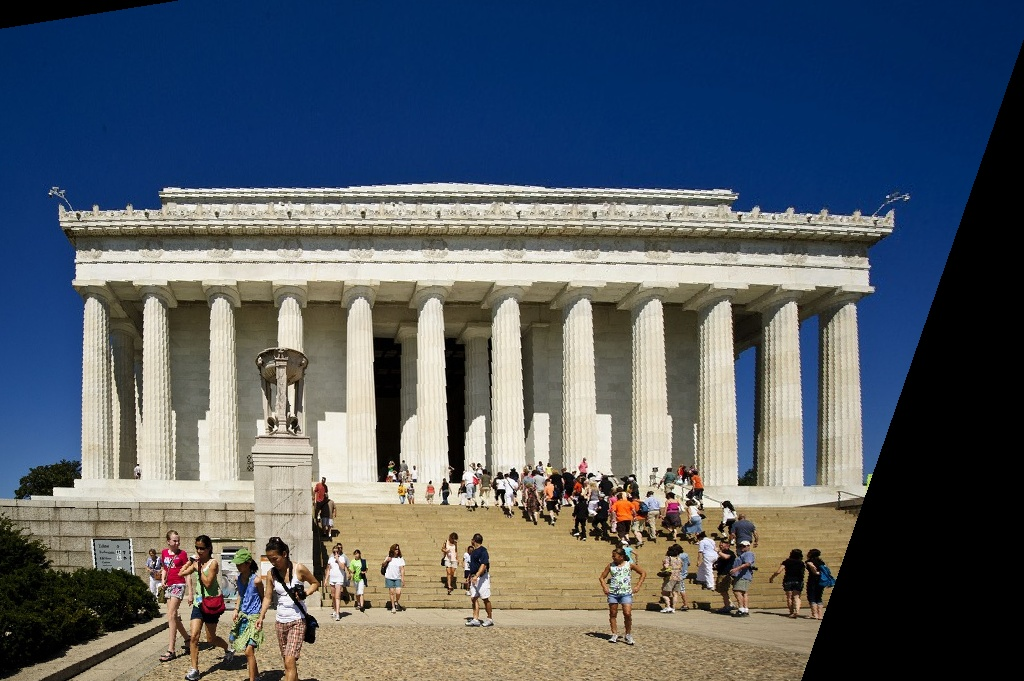
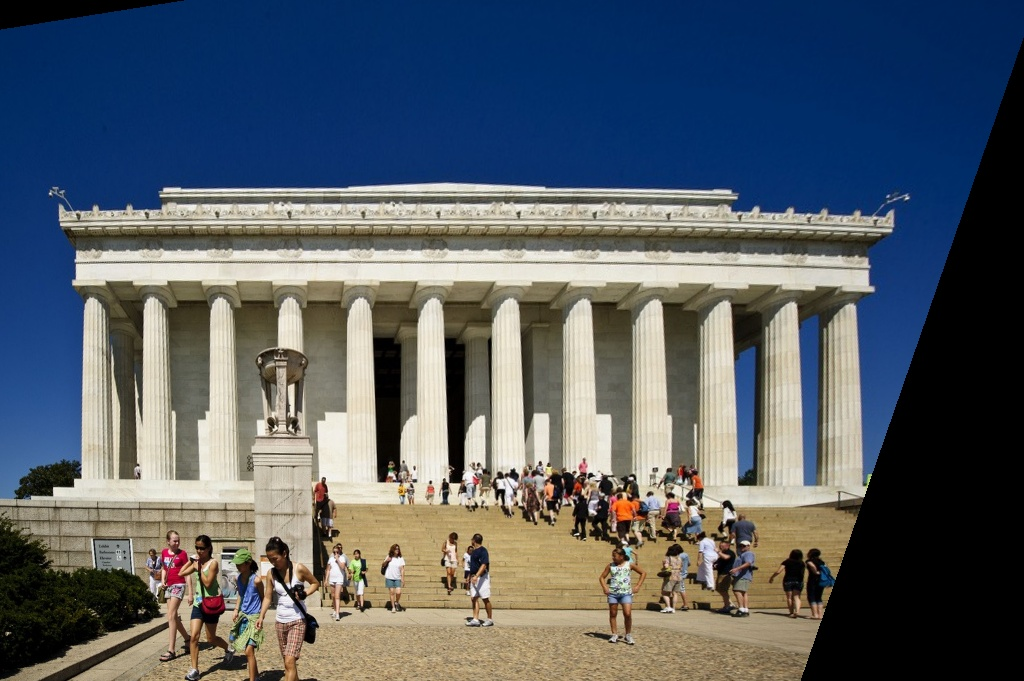
bilineal working and incorproated

diff --git a/a2.py b/a2.py
@@ -39,10 +39,11 @@
 # - Add file output
 # - Add dynamic programming to speed up?
 # - For write-up -- how do we speed it up?
+# - functionize part 1 into parts
 #
 # To fix Part 2
-# - Add bilinial interpolation
-#
+# 
+# - Speed up bilineal by using a dictionary?
 #
 #
 ################################################################################
@@ -179,26 +180,23 @@ def part1():
 def transform():
     pass
 
-def bilinial(im,x,y):
+# does by lineal interpopulation for inverse warping
+# return the pixel value
+def bilineal(im,x,y):
     dx = x-int(x)
     dy = y-int(y)
-    print(int(y-dy),int(x-dx), im[int(y-dy),int(x-dx)],"\n",
-          int(y)+1,int(x)+1, im[int(y)+1,int(x)+1], "\n",
-          int(y-dy),int(x)+1, im[int(y-dy),int(x)+1], "\n",
-          int(y)+1,int(x-dx),im[int(y)+1,int(x-dx)])
-    pixel = im[int(y-dy),int(x-dx)] * (1-dx)*(1-dy)
-    pixel += im[int(y)+1,int(x)+1] * dx * dy 
-    pixel += im[int(y-dy),int(x)+1] * dx * (1-dy) 
-    pixel += im[int(y)+1,int(x-dx)] * (1-dx) * dy
-    print(pixel)
-    # return pixel
+    pixel = im[int(y-dy),int(x-dx)] * (1-dx)*(1-dy) + \
+        im[int(y)+1,int(x)+1] * dx * dy + \
+        im[int(y-dy),int(x)+1] * dx * (1-dy) + \
+        im[int(y)+1,int(x-dx)] * (1-dx) * dy
+    return pixel
 
 def part2():
     starttime = time.time()
     n = int(sys.argv[2])
     base_im_file, warp_im_file, output_im_file = sys.argv[3:6]
     refpoints = [[[int(j) for j in sys.argv[6+2*i].split(",")], [int(k) for k in sys.argv[7+2*i].split(",")]] for i in range(n)]
-    pprint(refpoints)
+    # pprint(refpoints)
     
     # Test Matrix for Test Case
     tmatrix = np.array([[0.907, 0.258, -182],
@@ -214,28 +212,27 @@ def part2():
     output_shape = warp_im.shape
     output_im = np.zeros(output_shape, np.uint8)  # https://stackoverflow.com/questions/12881926/create-a-new-rgb-opencv-image-using-python
 
-    bilinial(warp_im,230.01,500.01)       
-    print(230.01,500.01)
-    bilinial(warp_im,230.99,500.01)       
-    print(230.99,500.01)
-    bilinial(warp_im,230.01,500.99)       
-    print(230.01,500.99)
-    bilinial(warp_im,230.99,500.99)       
-    print(230.99,500.99)
+    # bilinial(warp_im,230.01,500.01)       
+    # # print(230.01,500.01)
+    # bilinial(warp_im,230.99,500.01)       
+    # # print(230.99,500.01)
+    # bilinial(warp_im,230.01,500.99)       
+    # # print(230.01,500.99)
+    # bilinial(warp_im,230.99,500.99)       
+    # # print(230.99,500.99)
 
     
     for x in range(output_shape[1]):
         for y in range(output_shape[0]):
             pixel = np.array([x, y, 1])
             xyw = np.matmul(tmatrix_inv,pixel)
-            x_o, y_o = int(round(xyw[0] / xyw[2])), int(round(xyw[1] / xyw[2]))
-            # print("x,y,x_o, y_o")
-            # print(x,y,x_o, y_o)
-            if x_o >= 0 and x_o < output_shape[1] and y_o >= 0 and y_o < output_shape[0]:
-                output_im[y,x] = warp_im[y_o,x_o]
+            x_o, y_o = xyw[0] / xyw[2], xyw[1] / xyw[2]
+            if x_o >= 0 and x_o < output_shape[1]-1 and y_o >= 0 and y_o < output_shape[0]-1:
+                if x_o > output_shape[1]-1 or y_o > output_shape[0]-1:
+                    print(x_o,y_o)
+                output_im[y,x] = bilineal(warp_im,x_o,y_o)
             # else:
                 # no change, essentially output_im[y,x] = [0 0 0]
-
 
     cv2.imwrite(output_im_file, output_im)
         
@@ -248,7 +245,8 @@ if part == "part1":
     # profile.run("part1()")
     cProfile.run("part1()")
 elif part == "part2":
-    part2()
+    # part2()
+    cProfile.run("part2()")
 elif part == "part3":
     print(part)
 else:
